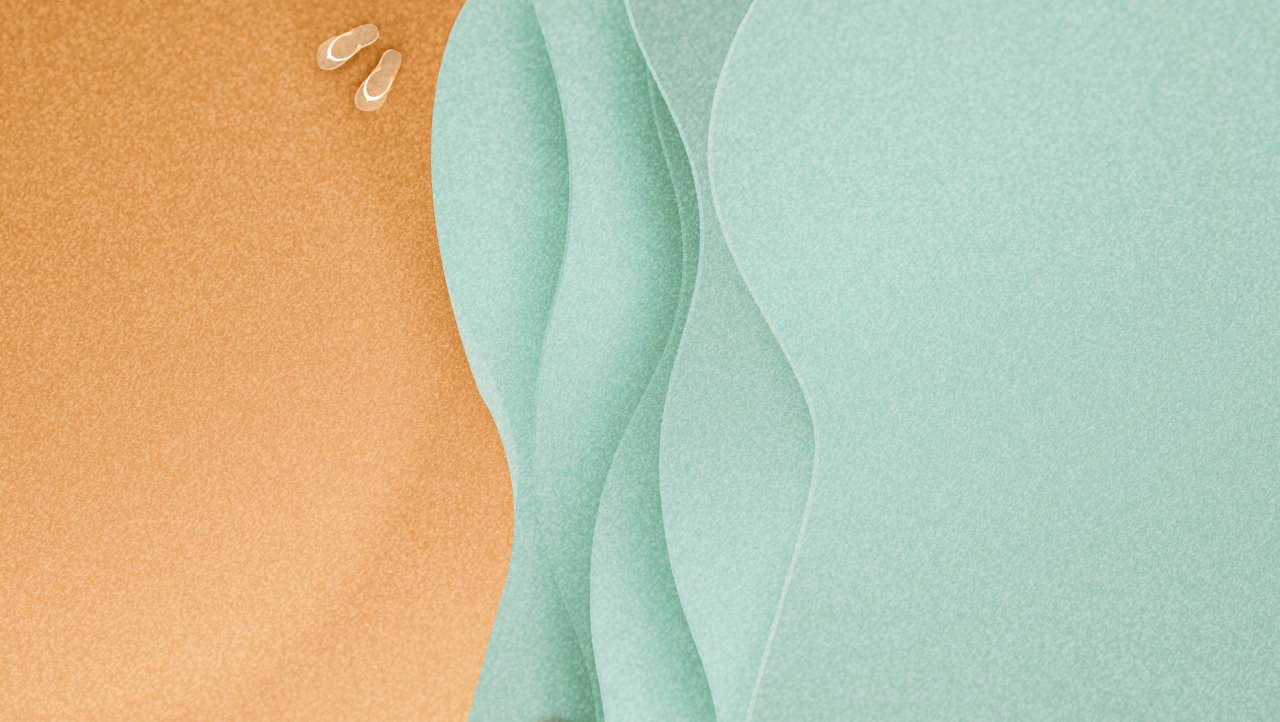
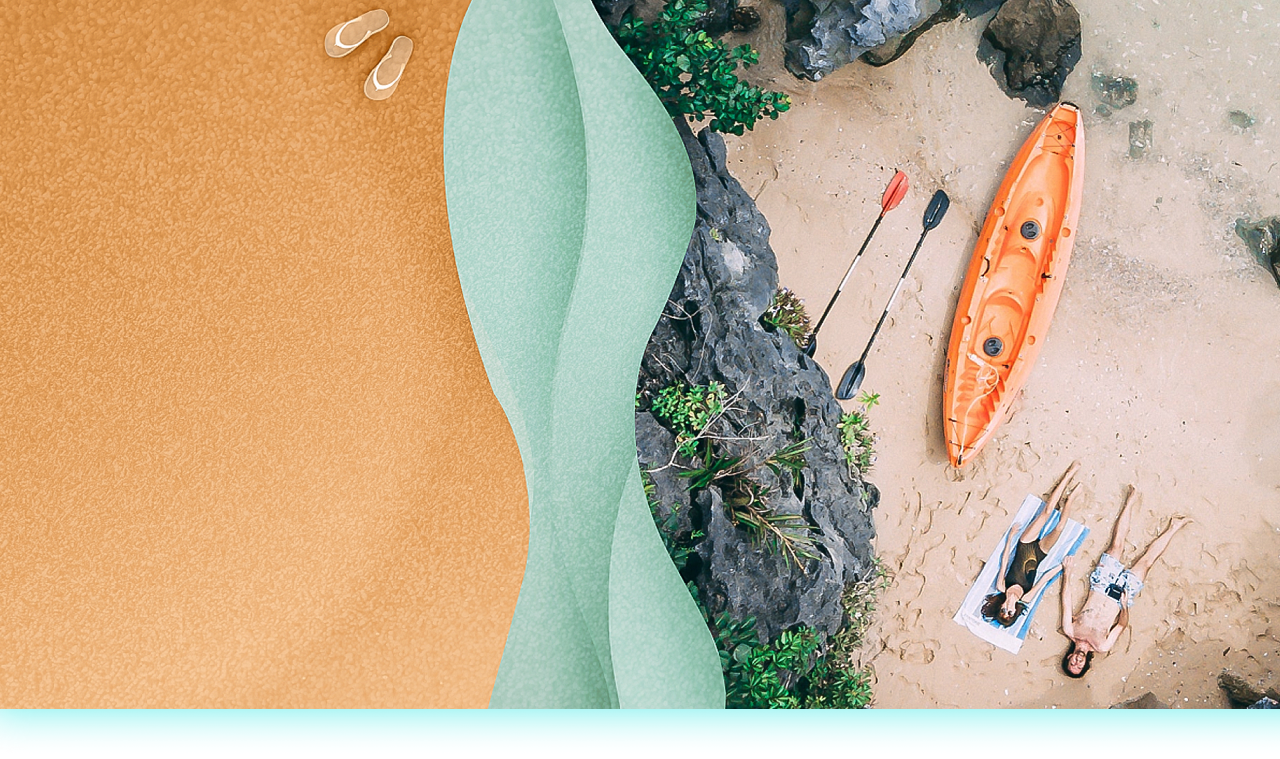
update image for background of home page and person of team

diff --git a/src/pages/about.html b/src/pages/about.html
@@ -105,7 +105,7 @@
                 <ul class="teams-list">
                     <!-- Item 1 -->
                     <li class="teams-item">
-                        <img src="../assets/images/person-team.png" alt="avatar" class="personal-image" />
+                        <img src="../assets/images/Ha-Vi.png" alt="avatar" class="personal-image" />
                         <span class="personal-name">nguyen thi ha vi</span>
                         <span class="personal-position">marketing director</span>
                     </li>
